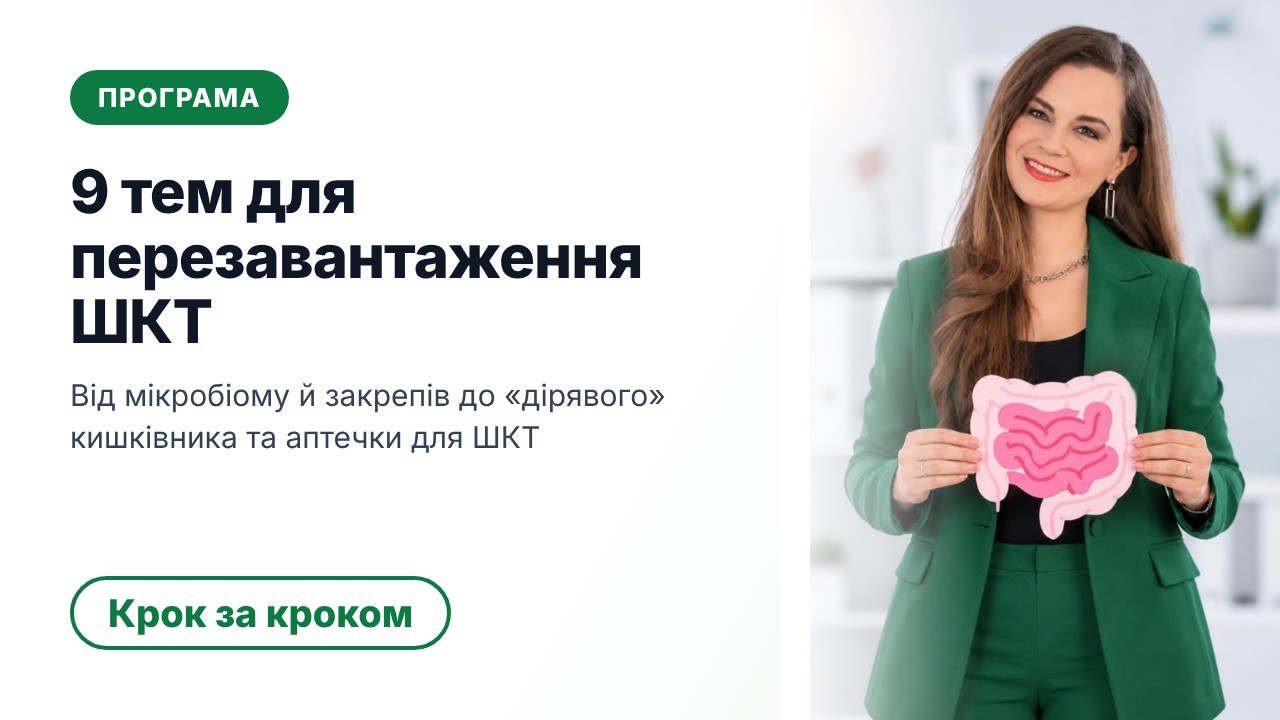
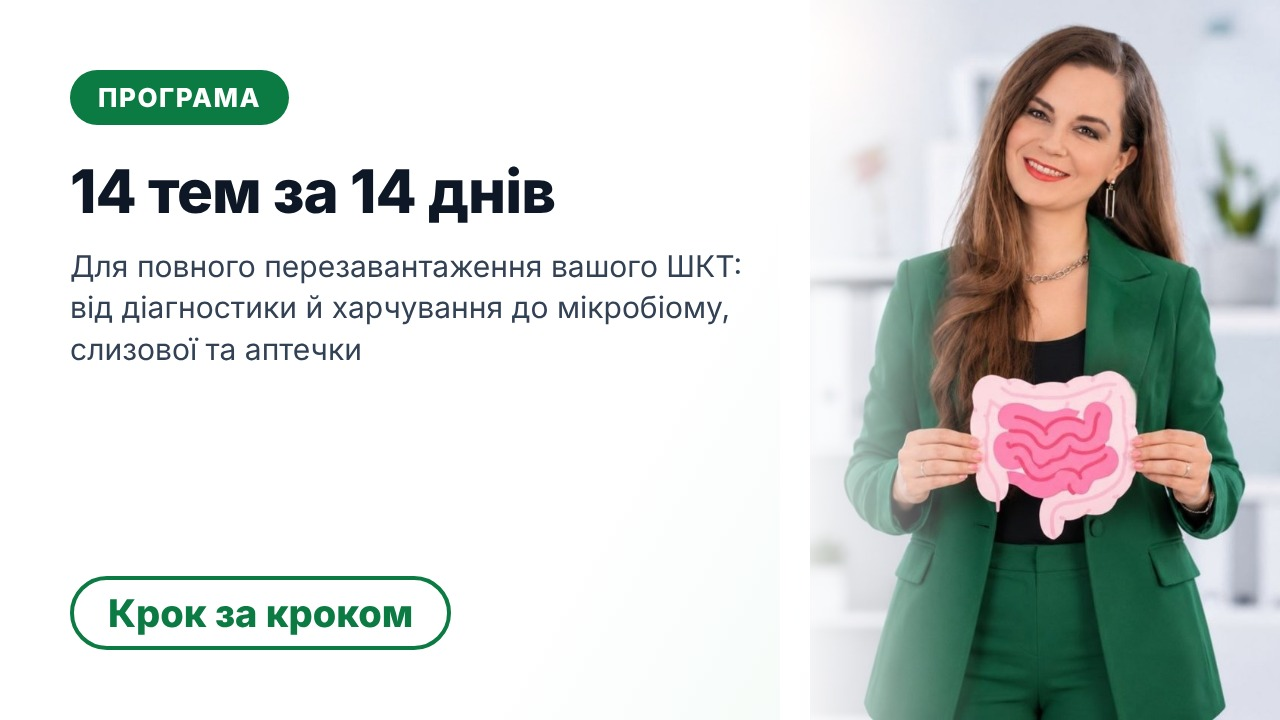
Правки Валентини: 2 тижні, спецціна до 22.11, нові розділи й програма з 14 тем, нова діагностика на 10 питань, оновлені картки
Claude-Session: https://claude.ai/code/session_01P95tyL1PPecuZWfpcGvJVw

Changed region(s): [[0.0312, 0.3361, 0.5625, 0.6417], [0.0312, 0.2139, 0.4375, 0.3056]]

diff --git a/quiz.py b/quiz.py
@@ -1,6 +1,6 @@
 """Діагностика «Що не так з вашим кишківником?» (кодове слово, ?start=test).
 
-7 питань кнопками А/Б/В. Кожна відповідь дає бал у зону або «ок».
+10 питань кнопками А/Б/В (12.11: за новою програмою з 14 тем). Кожна відповідь дає бал у зону або «ок».
 Результат = зона з найбільшою кількістю балів. Рівні бали = показуємо обидві.
 Тексти тут, міняти можна вільно. Це самоперевірка, не діагноз.
 """
@@ -16,7 +16,7 @@ log = logging.getLogger("quiz")
 IMG = os.path.join(os.path.dirname(__file__), "images")
 
 INTRO = ("<b>Що не так з вашим кишківником?</b>\n\n"
-         "Пройдіть коротку діагностику: <code>7 питань</code>, <code>2 хвилини</code>, відповіді кнопками.\n\n"
+         "Пройдіть коротку діагностику: <code>10 питань</code>, <code>3 хвилини</code>, відповіді кнопками.\n\n"
          "<i>Наприкінці я покажу, на що ваш кишківник найбільше «скаржиться» і з чого почати.</i>\n\n"
          "<i>Це самоперевірка, а не медичний діагноз.</i>")
 BTN_GO = "Почати діагностику"
@@ -25,21 +25,27 @@ BTN_MENU = "Пройти діагностику кишківника"
 # (питання, [(текст відповіді, зона)]) ; зони: zakrep, meteo, skin, nerv, ok
 QUESTIONS = [
     ("Як ви зазвичай почуваєтесь <b>після їжі</b>?",
-     [("Легко і комфортно", "ok"), ("Здуття, гази", "meteo"), ("Важкість, ніби камінь", "zakrep")]),
+     [("Легко і комфортно", "ok"), ("Здуття, гази, «надутий живіт»", "meteo"), ("Важкість, ніби камінь", "zakrep")]),
     ("Який у вас <b>стілець</b>?",
      [("Щодня, без проблем", "ok"), ("Рідше ніж раз на день або із зусиллям", "zakrep"),
-      ("Нестабільний: то закреп, то діарея", "nerv")]),
+      ("Часто рідкий або нестабільний", "nerv")]),
     ("Яким стає <b>живіт до вечора</b>?",
      [("Таким самим, як зранку", "ok"), ("Помітно більшим, «надутим»", "meteo"), ("Іноді болить або спазмує", "nerv")]),
-    ("Що зі <b>шкірою</b>?",
-     [("Чиста, все добре", "ok"), ("Висипання, тьмяність", "skin"), ("Алергії, свербіж", "skin")]),
-    ("Як з <b>енергією</b>?",
-     [("Вистачає на весь день", "ok"), ("Втома навіть після сну", "skin"), ("Тягне на солодке, настрій скаче", "meteo")]),
     ("Як живіт реагує на <b>стрес</b>?",
      [("Ніяк не реагує", "ok"), ("При хвилюванні одразу «крутить»", "nerv"), ("Від стресу стає закреп", "zakrep")]),
+    ("Що зі <b>шкірою</b>?",
+     [("Чиста, все добре", "ok"), ("Висипання, тьмяність", "skin"), ("Алергії, свербіж", "skin")]),
+    ("Як з <b>імунітетом</b>?",
+     [("Хворію рідко", "ok"), ("Часто застуди, запальні процеси", "skin"), ("Є аутоімунне захворювання або підозра на нього", "skin")]),
+    ("Як з <b>енергією і вагою</b>?",
+     [("Енергії вистачає, вага стабільна", "ok"), ("Втома навіть після сну", "skin"), ("Вага не йде, тягне на солодке", "meteo")]),
+    ("Чи були за останній рік <b>антибіотики</b> або кишкові інфекції?",
+     [("Ні", "ok"), ("Так, антибіотики", "meteo"), ("Так, інфекції або паразити", "meteo")]),
     ("Що з <b>аналізами й обстеженнями</b>?",
      [("Усе зрозуміло або не було потреби", "ok"), ("Є купа аналізів, але немає єдиної картини", "skin"),
-      ("Лікувалася антибіотиками за останній рік", "meteo")]),
+      ("Лікар казав про дивертикули, коліт чи опущення органів", "zakrep")]),
+    ("Що ви вже <b>пробували</b>?",
+     [("Нічого, бо все добре", "ok"), ("Пробіотики й добавки, але без результату", "meteo"), ("Дієти, а проблема повертається", "nerv")]),
 ]
 LETTERS = "АБВ"
 
@@ -48,22 +54,22 @@ RES = {
                "<b>Ваш результат: кишківнику бракує руху</b>\n\n"
                "Важкість після їжі, нерегулярний стілець, відчуття «каменя» часто означають, що <b>перистальтика працює повільніше</b>, ніж треба.\n\n"
                "<i>Це не вирок і не «така в мене особливість». Причин закрепів кілька, і кожну можна знайти.</i>\n\n"
-               "На інтенсиві цьому присвячена <code>тема 02</code>: <b>усі причини затримок і що гальмує перистальтику</b>."),
+               "На інтенсиві цьому присвячена <code>тема 06</code> <b>Подолання закрепів</b>: 10 основних причин порушень випорожнень, а ще <code>тема 13</code> про вправи й масажі для кишківника."),
     "meteo": ("card_res_meteo.jpg",
               "<b>Ваш результат: здуття і баланс мікробіому</b>\n\n"
               "«Надутий» до вечора живіт, гази, тяга до солодкого часто пов'язані з <b>балансом мікрофлори</b>.\n\n"
               "<i>Здуття не потрібно просто терпіти: його причину можна знайти й прибрати.</i>\n\n"
-              "На інтенсиві це <code>тема 04</code> <b>Мікробіом під контролем</b> і <code>тема 05</code> <b>Порятунок від метеоризму</b>."),
+              "На інтенсиві це <code>тема 08</code> <b>Що робити при метеоризмі</b>, <code>тема 09</code> <b>Мікробіом під контролем</b> і <code>тема 14</code> <b>«Аптечка» для ШКТ</b>."),
     "skin": ("card_res_skin.jpg",
              "<b>Ваш результат: кишківник говорить через шкіру й енергію</b>\n\n"
              "Висипання, тьмяна шкіра, втома навіть після сну дуже часто починаються <b>не зі шкіри, а з кишківника</b>.\n\n"
              "<i>Коли кишківник відновлюється, шкіра й енергія підтягуються слідом.</i>\n\n"
-             "На інтенсиві це <code>тема 01</code>: <b>як імунітет, гормони, шкіра й настрій залежать від кишківника</b>, а ще ми разом розберемо ваші аналізи."),
+             "На інтенсиві це <code>тема 01</code> <b>Зв'язок усього організму з кишківником</b>, <code>тема 02</code> <b>Справжня діагностика ШКТ</b> і <code>тема 10</code> <b>Схема відновлення слизової</b>, а ще ми разом розберемо ваші аналізи."),
     "nerv": ("card_res_nerv.jpg",
              "<b>Ваш результат: живіт реагує на стрес</b>\n\n"
              "Коли хвилювання одразу відгукується спазмами чи нестабільним стільцем, працює <b>зв'язок нервової системи й кишківника</b>.\n\n"
              "<i>Це не «просто нерви», з цим можна працювати м'яко і системно.</i>\n\n"
-             "На інтенсиві це <code>тема 07</code>: <b>нервова система ШКТ і приборкання СРК</b>, плюс антистрес-підтримка."),
+             "На інтенсиві це <code>тема 05</code> <b>Коли ламається вісь «мозок-кишківник»</b>: як розпізнати й усунути СРК, плюс антистрес-підтримка і <code>тема 04</code> про харчові тригери."),
     "ok": ("card_res_ok.jpg",
            "<b>Ваш результат: кишківник у хорошій формі</b> ❤\n\n"
            "Чудово! Серйозних сигналів за вашими відповідями немає.\n\n"

diff --git a/changelog.py b/changelog.py
@@ -10,11 +10,13 @@ import db
 
 log = logging.getLogger("changelog")
 
-VERSION = "2026-11-11-1"
+VERSION = "2026-11-12-1"
 NOTES = [
-    "Обов'язкова підписка на канал HEALTH_SHVETS на всіх входах: старт, ХОЧУ, діагностика, сайт, кнопки й повідомлення",
-    "Хто не підписаний, бачить кнопки «Підписатися на канал» і «Я в каналі», після підписки одразу потрапляє туди, куди йшов",
-    "Щоб перевірка працювала, агент має бути адміністратором каналу @health_vshvets. Коли це так, агент окремо напише «Канал підключено»",
+    "Інтенсив тепер триває 2 тижні, спецціна до 22.11 (у всіх повідомленнях, картках і в діагностиці)",
+    "Нові тексти розділів «Для кого», «Що ви отримаєте» і нова програма з 14 тем",
+    "Назви розділів великими літерами, кнопка «Поставити питання» замість «Запитати у Валентини»",
+    "Нова діагностика: 10 питань за новою програмою, результати посилаються на нові номери тем",
+    "Оновлені картки «Про запуск» (2 тижні), «Програма» (14 тем за 14 днів) і «Умови і ціна» (до 22.11)",
 ]
 
 

diff --git a/bot.py b/bot.py
@@ -82,6 +82,8 @@ async def show_bottom(ctx, chat_id, text=None):
 
 
 BOTTOM = {t: code for row in T.BTN_BOTTOM for t, code in row}
+BOTTOM.update({"Про Валентину": "author", "Про запуск": "launch", "🎯 Для кого": "for", "Програма": "program",  # 12.11: старі назви
+               "🎁 Що ви отримаєте": "get", "Умови і ціна": "terms", "💳 Оплатити": "pay", "🏠 Меню": "home"})
 
 
 def kb_intensive():
@@ -92,12 +94,12 @@ def kb_intensive():
 
 
 SECTIONS = {  # код: (назва кнопки, текст, картинка)
-    "launch": ("Про запуск", "INT_1", "card_launch.jpg"),
-    "author": ("Про авторку", "INT_AUTHOR", "card_author.jpg"),
-    "for": ("Для кого", "INT_FOR", "card_for.jpg"),
-    "program": ("Програма", "INT_PROGRAM", "card_program.jpg"),
-    "get": ("Що ви отримаєте", "INT_GET", "card_get.jpg"),
-    "terms": ("Умови і ціна", "INT_TERMS", "card_terms.jpg"),
+    "launch": ("ПРО ЗАПУСК", "INT_1", "card_launch.jpg"),
+    "author": ("ПРО АВТОРКУ", "INT_AUTHOR", "card_author.jpg"),
+    "for": ("🎯 ДЛЯ КОГО", "INT_FOR", "card_for.jpg"),
+    "program": ("ПРОГРАМА", "INT_PROGRAM", "card_program.jpg"),
+    "get": ("🎁 ЩО ВИ ОТРИМАЄТЕ", "INT_GET", "card_get.jpg"),
+    "terms": ("УМОВИ І ЦІНА", "INT_TERMS", "card_terms.jpg"),
 }
 
 

diff --git a/config.py b/config.py
@@ -8,11 +8,11 @@ DB_PATH = os.environ.get("DB_PATH", "bot.db")
 # Інтенсив «Здоровий кишківник»
 INTENSIVE_NAME = "Здоровий кишківник"
 INTENSIVE_AMOUNT = 1444          # сума для автоматичної оплати, грн
-INTENSIVE_PRICE_NOTE = "до 14.11"  # підпис біля ціни
+INTENSIVE_PRICE_NOTE = "до 22.11"  # підпис біля ціни
 INSTALL_PARTS = [482, 481, 481]  # розтермінування: суми платежів (разом 1444), наступні через кожні 30 днів
 INSTALL_DAYS = 30
 INTENSIVE_START = "24.11"
-INTENSIVE_LENGTH = "тиждень"
+INTENSIVE_LENGTH = "2 тижні"
 INTENSIVE_FORMAT = "Telegram-канал та чат підтримки"
 
 # Нік Валентини для питань (наприклад "@valentina"); порожньо = питання йдуть адмінам через агента

diff --git a/CLAUDE.md b/CLAUDE.md
@@ -31,3 +31,9 @@
 ## Обов'язкова підписка (11.11)
 - config.CHANNEL_USERNAME = "@health_vshvets". bot.gate(ctx, uid, chat, src) у start (src зберігається в flag gate_src:<uid>), на початку on_cb (крім grp:/grant:/crm:) і on_text; кнопка chg:check → GATE_OK і go_src(src). Якщо агент не адмін каналу: пропускає всіх і раз на добу GATE_ADMIN_ALERT. gate_job раз на 10 хв: коли агент став адміном каналу, один раз GATE_CONNECTED адмінам (flag gate_connected).
 - У закріпленому пості каналу «Усі мої послуги» веде на старий @health_shvets_bot, порадили замінити на @valentina_shvets_bot.
+
+## Правки Валентини (12.11)
+- Інтенсив 2 тижні, спецціна до 22.11 (config). Тексти INT_FOR, INT_PROGRAM (14 тем з її документа), INT_GET дослівно від неї; заголовки розділів і нижнє меню великими літерами (старі назви кнопок лишились у BOTTOM для старих клавіатур); BTN_ASK_V = «Поставити питання»; URGENT + «Кількість місць обмежена ❗».
+- quiz.py: 10 питань, ті самі 5 зон (zakrep, meteo, skin, nerv, ok), у результатах номери нових тем.
+- Картки card_launch/program/terms перезібрано (HTML-шаблони в scratchpad vcards/, Playwright 1280×720).
+- Сайт (Netlify) оновлено тими самими правками, новий index.html надіслано Тетяні; таймер до 22.11.
